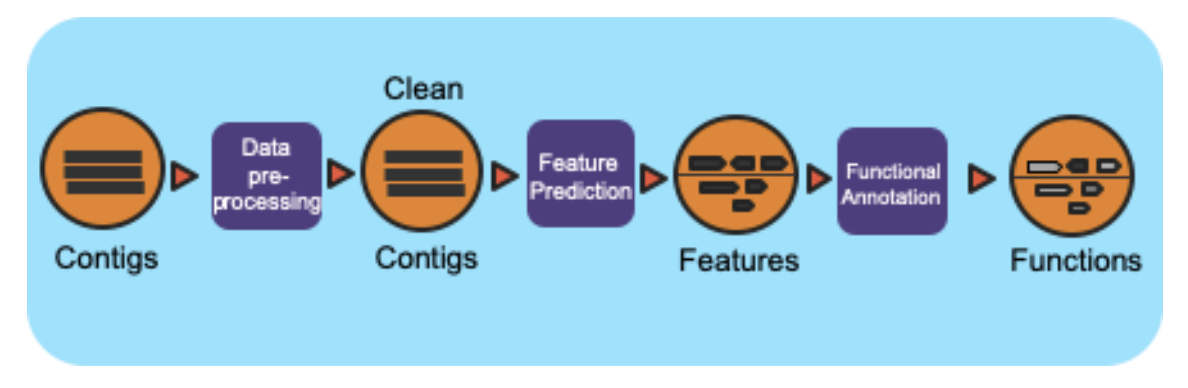
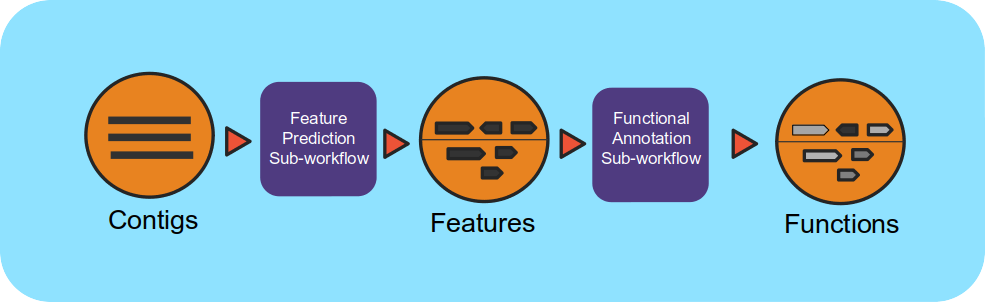
Updated annotationm workflow diagram

diff --git a/docs/chapters/4_MetaGAnnotation_index.rst b/docs/chapters/4_MetaGAnnotation_index.rst
@@ -72,7 +72,7 @@ of the full metadata JSON file.
   :language: JSON
 
 
-**Version History:** 1.0.0 (release data 
+**Version History:** 1.0.0 (release data)
 
 Point of contact
 ----------------
